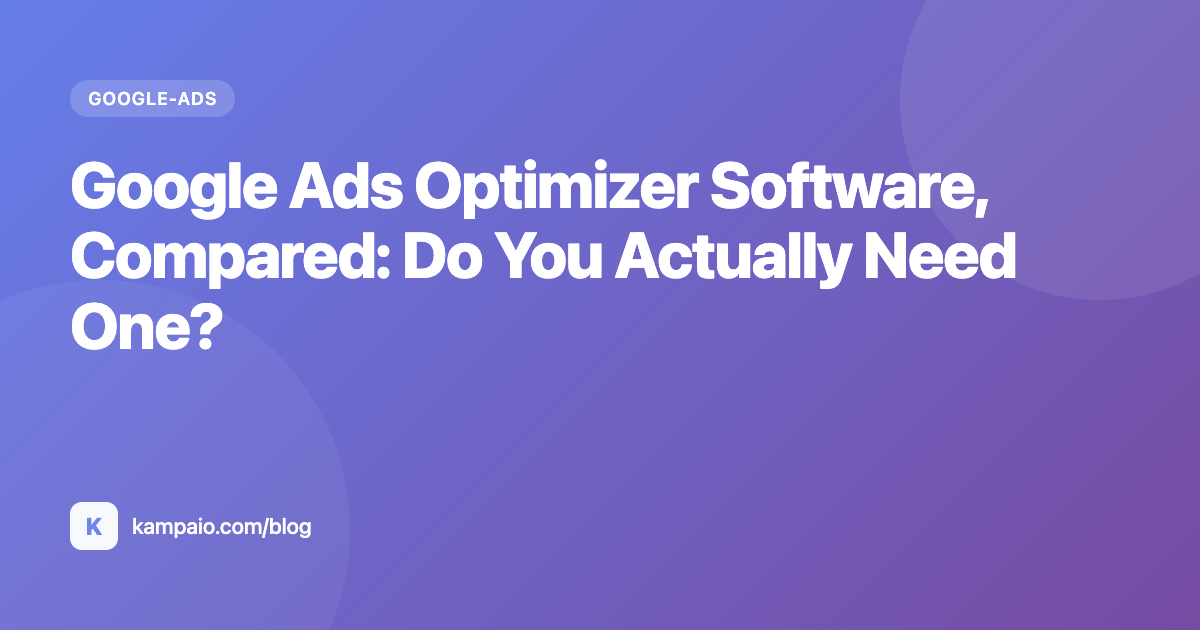
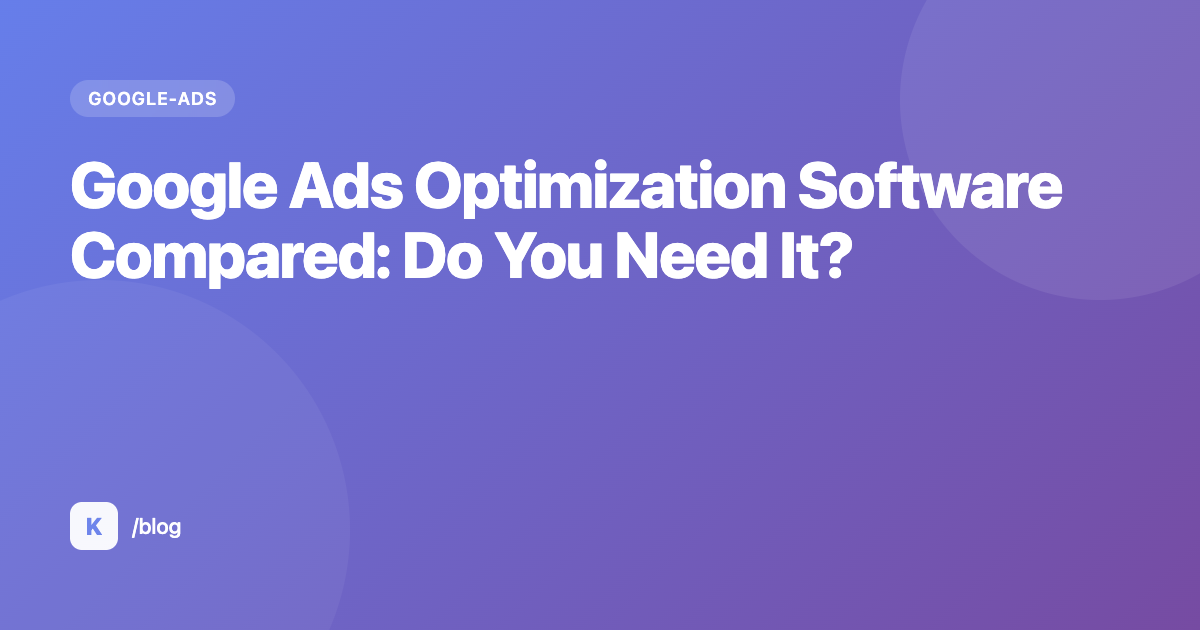
chore(seo): Argus weekly audit auto-fixes (2026-11-16)
- internal_linker: 10 contextual links in 10 articles (5 to maximize-conversion-value, 5 to google-ads-remarketing/others)
- cluster_downlinks: pillar google-ads-optimization links new spoke maximize-conversion-value (was an orphan); one anchor refreshed
- article_schema_enrich: wordCount + articleSection on google-ads-remarketing, maximize-conversion-value
- og card regenerated for google-ads-optimizer-software-compared (headline changed 2026-11-13)
- F1 dead snippet: ppc-management-cost meta description rewritten (213 -> 159 chars)

Full report: seo-agent-team/audits/2026-11-16.md

Changed region(s): [[0.4933, 0.2413, 0.8942, 0.4524], [0.0617, 0.4825, 0.185, 0.573], [0.0925, 0.8143, 0.2775, 0.8746]]

diff --git a/src/app/blog/google-ads-bid-strategy-status-limited/ArticleContent.tsx b/src/app/blog/google-ads-bid-strategy-status-limited/ArticleContent.tsx
@@ -403,7 +403,7 @@ export default function ArticleContent() {
               </div>
 
               <p style={{ fontSize: '18px', lineHeight: '1.8', color: '#1e293b', marginBottom: '32px' }}>
-                <strong>Conversion volume too low for Smart Bidding.</strong> <a href="/blog/google-ads-smart-bidding-strategies" style={{ color: '#764ba2', textDecoration: 'underline' }}>Smart Bidding strategies</a> (Target CPA, Target ROAS, Maximize Conversions, Maximize Conversion Value) get better with more data. With very few conversions, the algorithm leans defensive and underbids. Google does not publish a hard threshold. The industry rule of thumb is roughly 30 to 50 conversions per month per campaign before Target CPA or Target ROAS settles in, and Google itself only says to measure performance after enough data has accumulated. Volume that low can also be a tracking artifact: if a tag is dropping fires, the algorithm sees a starved campaign that is actually converting fine. <a href="/blog/google-ads-conversion-tracking-not-working" style={{ color: '#764ba2', textDecoration: 'underline' }}>Google Ads conversion tracking not working</a> walks through the 90-second triage.
+                <strong>Conversion volume too low for Smart Bidding.</strong> <a href="/blog/google-ads-smart-bidding-strategies" style={{ color: '#764ba2', textDecoration: 'underline' }}>Smart Bidding strategies</a> (Target CPA, Target ROAS, Maximize Conversions, <a href="/blog/maximize-conversion-value" style={{ color: '#764ba2', textDecoration: 'underline' }}>Maximize Conversion Value</a>) get better with more data. With very few conversions, the algorithm leans defensive and underbids. Google does not publish a hard threshold. The industry rule of thumb is roughly 30 to 50 conversions per month per campaign before Target CPA or Target ROAS settles in, and Google itself only says to measure performance after enough data has accumulated. Volume that low can also be a tracking artifact: if a tag is dropping fires, the algorithm sees a starved campaign that is actually converting fine. <a href="/blog/google-ads-conversion-tracking-not-working" style={{ color: '#764ba2', textDecoration: 'underline' }}>Google Ads conversion tracking not working</a> walks through the 90-second triage.
               </p>
               <p style={{ fontSize: '18px', lineHeight: '1.8', color: '#1e293b', marginBottom: '32px' }}>
                 <strong>Structural conflicts and recent disruption.</strong> Targeting set too narrowly (a single ZIP code, a single device, an exotic language). A shared budget where the strategies don&apos;t match the policy that all campaigns in a shared budget must use identical portfolio strategies. A change you made yesterday that is still inside the learning window. These look like &quot;Limited&quot; too, even though the cause is different.

diff --git a/src/app/blog/google-ads-for-b2b-saas/ArticleContent.tsx b/src/app/blog/google-ads-for-b2b-saas/ArticleContent.tsx
@@ -539,7 +539,7 @@ export default function ArticleContent() {
               <p style={para}>Yes, when your category has real bottom-funnel search demand and your LTV justifies CPCs of $8-30+ on category terms. It underdelivers for genuinely new categories where nobody searches the problem in your words yet, where demand-creation channels carry more weight early.</p>
 
               <h3 style={{ fontSize: '20px', fontWeight: 700, color: '#1e293b', marginTop: '28px', marginBottom: '12px' }}>What is the best bidding strategy for B2B SaaS Google Ads?</h3>
-              <p style={para}>Start with Maximize Conversions while volume is low. Move to Maximize Conversion Value once OCI is wired and producing reliable pipeline values. Graduate to Target ROAS or Target CPA only after hitting Google&apos;s documented conversion minimums: 30 per month for Target CPA, 50 for Target ROAS (<a href="https://support.google.com/google-ads/answer/7065882" style={linkStyle} target="_blank" rel="noopener noreferrer">Google Ads Help</a>). Starting on tROAS with thin or junk signal optimizes for cheap junk faster.</p>
+              <p style={para}>Start with Maximize Conversions while volume is low. Move to <a href="/blog/maximize-conversion-value" style={{ color: '#764ba2', textDecoration: 'underline' }}>Maximize Conversion Value</a> once OCI is wired and producing reliable pipeline values. Graduate to Target ROAS or Target CPA only after hitting Google&apos;s documented conversion minimums: 30 per month for Target CPA, 50 for Target ROAS (<a href="https://support.google.com/google-ads/answer/7065882" style={linkStyle} target="_blank" rel="noopener noreferrer">Google Ads Help</a>). Starting on tROAS with thin or junk signal optimizes for cheap junk faster.</p>
 
               <h3 style={{ fontSize: '20px', fontWeight: 700, color: '#1e293b', marginTop: '28px', marginBottom: '12px' }}>How do I structure Google Ads campaigns for B2B SaaS?</h3>
               <p style={para}>Use four intent tiers (brand, category/non-brand, competitor/conquest, and problem-aware) plus a remarketing layer. Keep each tier in its own campaign so budget and bidding match the very different intent, CPC range, and funnel job. Mixing tiers forces one bid <a href="/blog/google-ads-strategy" style={{ color: '#764ba2', textDecoration: 'underline' }}>strategy</a> to serve incompatible intent signals.</p>

diff --git a/src/app/blog/ai-powered-ppc-optimization-complete-guide/ArticleContent.tsx b/src/app/blog/ai-powered-ppc-optimization-complete-guide/ArticleContent.tsx
@@ -235,7 +235,7 @@ export default function ArticleContent() {
             <section id="how-ai-reads">
               <h2 style={h2Style}>How AI Actually Reads Your Google Ads Account</h2>
               <p style={paragraphStyle}>
-                AI-powered PPC optimization reads your account at the auction-signal level. Every search query triggers a probability calculation that uses far more than match type and bid. The model scores predicted conversion rate and value before it picks a max-CPC for that single auction. According to <a href="https://support.google.com/google-ads/answer/6167122" target="_blank" rel="noopener noreferrer" style={linkStyle}>Google's Smart Bidding documentation</a>, the system considers device, location, time of day, language, browser, operating system, audience signals, remarketing list membership, demographics, and day of week as inputs to that calculation.
+                AI-powered PPC optimization reads your account at the auction-signal level. Every search query triggers a probability calculation that uses far more than match type and bid. The model scores predicted conversion rate and value before it picks a max-CPC for that single auction. According to <a href="https://support.google.com/google-ads/answer/6167122" target="_blank" rel="noopener noreferrer" style={linkStyle}>Google's Smart Bidding documentation</a>, the system considers device, location, time of day, language, browser, operating system, audience signals, <a href="/blog/google-ads-remarketing" style={{ color: '#764ba2', textDecoration: 'underline' }}>remarketing</a> list membership, demographics, and day of week as inputs to that calculation.
               </p>
               <p style={paragraphStyle}>
                 A worked example helps. Take the keyword "running shoes". Smart Bidding sees one search on an iPhone in Brooklyn at 8pm from a returning visitor with cart history. It sees another on a desktop in rural Iowa at 9am from a cold prospect. The model predicts a 3.2x higher conversion value on the first auction. Your max-CPC moves accordingly, in real time, without you ever opening the campaign.

diff --git a/src/app/blog/google-ads-ai-vs-manual-bidding/ArticleContent.tsx b/src/app/blog/google-ads-ai-vs-manual-bidding/ArticleContent.tsx
@@ -406,7 +406,7 @@ export default function ArticleContent() {
                 That tradeoff is direct: manual CPC trades data richness for full control; Smart Bidding trades control for per-auction signal access. One is not universally better, one is a better fit depending on what your account can supply.
               </p>
               <p style={paragraphStyle}>
-                For a full breakdown of the six Smart Bidding strategy options (Target CPA, Target ROAS, Maximize Conversions, Maximize Conversion Value, Enhanced CPC, and Target Impression Share), see <a href="/blog/google-ads-smart-bidding-strategies" style={linkStyle}>choosing the right Smart Bidding strategy</a>. For what <a href="/blog/10-ai-powered-ppc-optimization-strategies" style={{ color: '#764ba2', textDecoration: 'underline' }}>AI optimization</a> covers beyond bids, see <a href="/blog/ai-powered-ppc-optimization-complete-guide" style={linkStyle}>what AI optimization covers beyond bids</a>. This article focuses on the layer above: AI bidding or manual at all?
+                For a full breakdown of the six Smart Bidding strategy options (Target CPA, Target ROAS, Maximize Conversions, <a href="/blog/maximize-conversion-value" style={{ color: '#764ba2', textDecoration: 'underline' }}>Maximize Conversion Value</a>, Enhanced CPC, and Target Impression Share), see <a href="/blog/google-ads-smart-bidding-strategies" style={linkStyle}>choosing the right Smart Bidding strategy</a>. For what <a href="/blog/10-ai-powered-ppc-optimization-strategies" style={{ color: '#764ba2', textDecoration: 'underline' }}>AI optimization</a> covers beyond bids, see <a href="/blog/ai-powered-ppc-optimization-complete-guide" style={linkStyle}>what AI optimization covers beyond bids</a>. This article focuses on the layer above: AI bidding or manual at all?
               </p>
             </section>
 

diff --git a/src/app/blog/google-ads-optimization/ArticleContent.tsx b/src/app/blog/google-ads-optimization/ArticleContent.tsx
@@ -619,7 +619,8 @@ export default function ArticleContent() {
           <li style={{ marginBottom: '0.4rem' }}><a href="/blog/google-shopping-agency" style={{ color: 'var(--primary, #764ba2)', textDecoration: 'underline' }}>Google Shopping Agency: Should You Hire One, or Run Shopping Yourself?</a></li>
           <li style={{ marginBottom: '0.4rem' }}><a href="/blog/performance-max-single-conversion-signal-steering" style={{ color: 'var(--primary, #764ba2)', textDecoration: 'underline' }}>Performance Max Single-Conversion-Signal Steering: Why the 2026 LSA Migration Makes It Worse (and How to Fix It)</a></li>
           <li style={{ marginBottom: '0.4rem' }}><a href="/blog/target-roas-underperforming-after-google-update" style={{ color: 'var(--primary, #764ba2)', textDecoration: 'underline' }}>Target ROAS Underperforming After a Google Update? The Test</a></li>
-          <li style={{ marginBottom: '0.4rem' }}><a href="/blog/google-ads-remarketing" style={{ color: 'var(--primary, #764ba2)', textDecoration: 'underline' }}>Google Ads Remarketing at Scale: Lists, Exclusions and What PMax Changes (2026)</a></li>
+          <li style={{ marginBottom: '0.4rem' }}><a href="/blog/google-ads-remarketing" style={{ color: 'var(--primary, #764ba2)', textDecoration: 'underline' }}>Google Ads Remarketing: Lists, Exclusions and PMax</a></li>
+          <li style={{ marginBottom: '0.4rem' }}><a href="/blog/maximize-conversion-value" style={{ color: 'var(--primary, #764ba2)', textDecoration: 'underline' }}>Maximize Conversion Value: Which Client Accounts Should Use It</a></li>
         </ul>
       </div>
       {/* cluster-downlinks:END */}

diff --git a/src/app/blog/b2b-google-ads-lead-generation/ArticleContent.tsx b/src/app/blog/b2b-google-ads-lead-generation/ArticleContent.tsx
@@ -560,7 +560,7 @@ export default function ArticleContent() {
               </p>
 
               <p style={{ fontSize: '18px', lineHeight: '1.8', color: '#1e293b', marginBottom: '16px' }}>
-                <strong>1. TOFU campaign:</strong> Broad match keywords around the problem space ("reduce B2B CAC", "B2B demand generation tools"). Bid strategy: Maximize Clicks or Target Impression Share. Goal: build remarketing audiences and fill the top of the funnel. Do not expect direct conversions from TOFU, audience building is the objective.
+                <strong>1. TOFU campaign:</strong> Broad match keywords around the problem space ("reduce B2B CAC", "B2B demand generation tools"). Bid strategy: Maximize Clicks or Target Impression Share. Goal: build <a href="/blog/google-ads-remarketing" style={{ color: '#764ba2', textDecoration: 'underline' }}>remarketing</a> audiences and fill the top of the funnel. Do not expect direct conversions from TOFU, audience building is the objective.
               </p>
               <p style={{ fontSize: '18px', lineHeight: '1.8', color: '#1e293b', marginBottom: '16px' }}>
                 <strong>2. MOFU campaign:</strong> Phrase and exact match keywords around solution categories ("B2B lead generation software", "Google Ads management platform"). Bid strategy: Maximize Conversions once you have 30+ conversions in the last 30 days; otherwise Maximize Clicks. Landing page: solution-specific with a concrete offer (free audit, ROI calculator, case study).

diff --git a/src/app/blog/google-ads-display-network-wasted-spend/ArticleContent.tsx b/src/app/blog/google-ads-display-network-wasted-spend/ArticleContent.tsx
@@ -604,7 +604,7 @@ export default function ArticleContent() {
             <section id="when-display-works">
               <h2 style={h2Style}>When Display Network IS Worth Running (Honest Take)</h2>
               <p style={pStyle}>
-                Display Network is worth running in three specific scenarios: brand awareness for established brands with $20K+ monthly spend, remarketing to recent site visitors, and visual or lifestyle products where the image moves the buyer. Outside those three, Display does not pay back as a Search-campaign opt-in.
+                Display Network is worth running in three specific scenarios: brand awareness for established brands with $20K+ monthly spend, <a href="/blog/google-ads-remarketing" style={linkStyle}>remarketing</a> to recent site visitors, and visual or lifestyle products where the image moves the buyer. Outside those three, Display does not pay back as a Search-campaign opt-in.
               </p>
               <p style={pStyle}>
                 <strong>Brand awareness for established brands.</strong> Budgets over $20,000 a month, CMO who tracks branded search lift and view-through, not direct ROAS. The mental model is &quot;we are spending to teach the market the name&quot;, measured weeks or quarters out. Display is a fine tool for that job. It is not the right tool for a $1,500 a month SMB Search campaign.

diff --git a/src/app/blog/b2b-google-ads-low-quality-leads/ArticleContent.tsx b/src/app/blog/b2b-google-ads-low-quality-leads/ArticleContent.tsx
@@ -297,7 +297,7 @@ export default function ArticleContent() {
             <section id="fix-2">
               <h2 style={h2Style}>Fix #2: Switch to Value-Based Bidding (Maximize Conversion Value With Per-Stage Values)</h2>
               <p style={paraStyle}>
-                Once offline conversions are flowing, switch the bid <a href="/blog/google-ads-strategy" style={linkStyle}>strategy</a>. Maximize Conversions optimizes for count. Maximize Conversion Value optimizes for revenue. That single change reshapes what Smart Bidding pursues.
+                Once offline conversions are flowing, switch the bid <a href="/blog/google-ads-strategy" style={linkStyle}>strategy</a>. Maximize Conversions optimizes for count. <a href="/blog/maximize-conversion-value" style={linkStyle}>Maximize Conversion Value</a> optimizes for revenue. That single change reshapes what Smart Bidding pursues.
               </p>
               {/* Callout: prerequisites */}
               <div style={{ background: '#fefce8', borderLeft: '4px solid #eab308', borderRadius: '8px', padding: '20px 24px', marginBottom: '24px' }}>

diff --git a/src/app/blog/google-ads-account-structure/ArticleContent.tsx b/src/app/blog/google-ads-account-structure/ArticleContent.tsx
@@ -269,7 +269,7 @@ export default function ArticleContent() {
             <section id="tldr">
               <h2 style={{ ...h2Style, marginTop: 0 }}>TL;DR: The Right Structure in 30 Seconds</h2>
               <p style={paragraphStyle}>
-                A Google Ads account structure has three layers: account, campaign, ad group. For DTC and ecommerce, split campaigns by intent (brand, non-brand category, product feed, remarketing), not by product feature, and group keywords into single-theme ad groups (STAG) instead of single-keyword ad groups (SKAG).
+                A Google Ads account structure has three layers: account, campaign, ad group. For DTC and ecommerce, split campaigns by intent (brand, non-brand category, product feed, <a href="/blog/google-ads-remarketing" style={{ color: '#764ba2', textDecoration: 'underline' }}>remarketing</a>), not by product feature, and group keywords into single-theme ad groups (STAG) instead of single-keyword ad groups (SKAG).
               </p>
 
               {/* VISUAL 1: KeyTakeaways (structural) : front-loaded answer */}

diff --git a/src/app/blog/google-ads-lead-quality-guide/ArticleContent.tsx b/src/app/blog/google-ads-lead-quality-guide/ArticleContent.tsx
@@ -544,7 +544,7 @@ export default function ArticleContent() {
               <p style={pStyle}>
                 The fix is a feedback loop: tell Google which leads are real, make it bid for revenue instead of volume, then
                 tighten the funnel so less junk gets in. Google Ads Help endorses this sequence, recommending value-based
-                bidding - Maximize Conversion Value or tROAS - as the best practice for high-quality lead generation once
+                bidding - <a href="/blog/maximize-conversion-value" style={linkStyle}>Maximize Conversion Value</a> or tROAS - as the best practice for high-quality lead generation once
                 quality data is flowing (
                 <a href="https://support.google.com/google-ads/answer/13489421?hl=en" style={linkStyle} target="_blank" rel="noopener noreferrer">
                   Google Ads Help, 2024

diff --git a/src/app/blog/google-ads-agency-account-ownership/ArticleContent.tsx b/src/app/blog/google-ads-agency-account-ownership/ArticleContent.tsx
@@ -427,7 +427,7 @@ export default function ArticleContent() {
               <h2 style={h2Style}>The Ownership Exposure Check: Six Google Assets Your Agency Might Hold</h2>
               <p style={paragraphStyle}>
                 Your Google Ads account is one of six separate objects an agency can hold, and they strand independently. Losing the ads account is the
-                obvious risk. Losing the payments profile, the conversion tags, the GA4 link, the remarketing audiences, or Merchant Center is the one that
+                obvious risk. Losing the payments profile, the conversion tags, the GA4 link, the <a href="/blog/google-ads-remarketing" style={{ color: '#764ba2', textDecoration: 'underline' }}>remarketing</a> audiences, or Merchant Center is the one that
                 actually stops you rebuilding.
               </p>
 

diff --git a/src/app/blog/ppc-management-cost/page.tsx b/src/app/blog/ppc-management-cost/page.tsx
@@ -3,7 +3,7 @@ import ArticleContent from './ArticleContent';
 
 export const metadata: Metadata = {
   title: 'PPC Management Pricing: What Agencies Actually Charge (2026)',
-  description: 'PPC management costs $500 to $10,000 a month, or 10 to 20% of ad spend. Here is the honest line-item breakdown, the three pricing models decoded, and the math on whether the fee is worth it at your spend level.',
+  description: 'PPC management pricing in 2026: agencies charge $500 to $10,000 a month or 10 to 20% of ad spend; software starts near $499 flat. The math on what is worth it.',
   alternates: {
     canonical: 'https://www.kampaio.com/blog/ppc-management-cost',
   },
